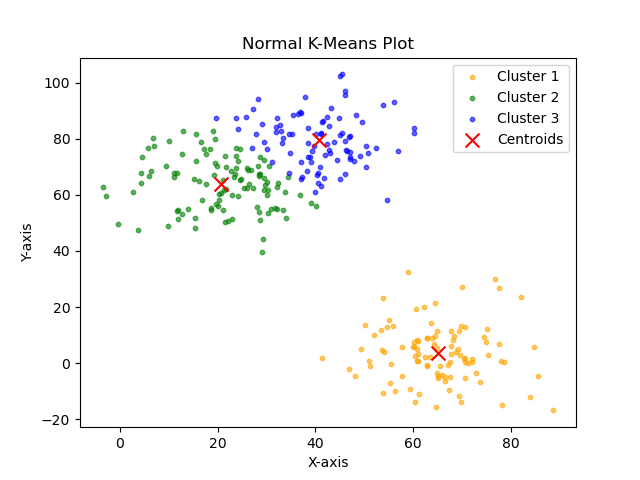
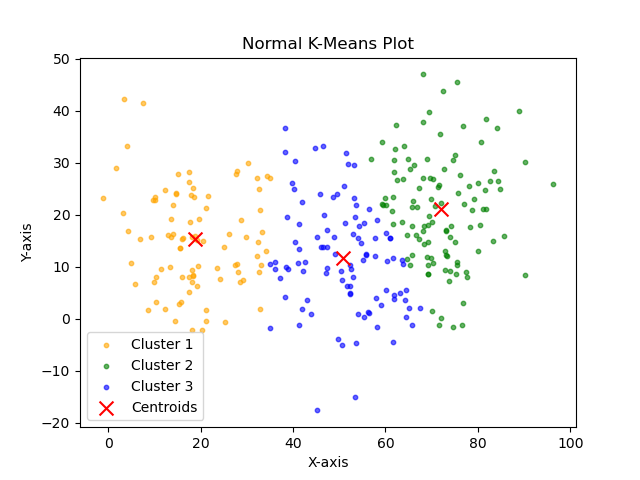
-Implemented numpy approach -Plotted numpy clusters -Save time to a text file

diff --git a/k_means.py b/k_means.py
@@ -1,6 +1,7 @@
 import matplotlib.pyplot as plt
 import random
 import time
+import numpy as np
 
 centroids = [(random.uniform(0, 100), random.uniform(0, 100)) for _ in range(3)]
 
@@ -78,4 +79,40 @@ def plot_clusters(points, clusters, centroids, output_file):
     plt.show()
 
 plot_clusters(points, final_clusters, final_centroids, 'normal_kmeans_clusters.png')
+
+def k_means_numpy(points, k, iterations):
+    points = np.array(points)
+    centroids = points[np.random.choice(points.shape[0], k, replace=False)]
+    for _ in range(iterations):
+        distances = np.linalg.norm(points[:, np.newaxis] - centroids, axis=2)
+        clusters = [points[distances[:, i] == np.min(distances, axis=1)] for i in range(k)]
+        new_centroids = np.array([np.mean(cluster, axis=0) if len(cluster) > 0 else points[np.random.randint(len(points))] for cluster in clusters])
+        if np.array_equal(new_centroids, centroids):
+            break
+        centroids = new_centroids
+    return centroids, clusters
+
+start_time_numpy = time.time()
+final_centroids_numpy, final_clusters_numpy = k_means_numpy(points, k=3, iterations=500)
+end_time_numpy = time.time()
+print("K-Means NumPy Time:", end_time_numpy - start_time_numpy, "seconds")
+
+with open("time_comparison.txt", "w") as file:
+    file.write(f"K-Means Normal Time: {end_time - start_time} seconds\n")
+    file.write(f"K-Means NumPy Time: {end_time_numpy - start_time_numpy} seconds\n")
+
+def plot_clusters_numpy(points, clusters, centroids, output_file):
+    colors = ["orange", "green", "blue"]
+    for i, cluster in enumerate(clusters):
+        if len(cluster) > 0:
+            plt.scatter(cluster[:, 0], cluster[:, 1], alpha=0.6, label=f"Cluster {i + 1}", s=10, color=colors[i])
+    plt.scatter(centroids[:, 0], centroids[:, 1], color='red', label="Centroids", s=100, marker='x')
+    plt.legend()
+    plt.title("NumPy K-Means Plot")
+    plt.xlabel("X-axis")
+    plt.ylabel("Y-axis")
+    plt.savefig(output_file)
+    plt.show()
+    
+plot_clusters_numpy(points, final_clusters_numpy, final_centroids_numpy, 'numpy_kmeans_clusters.png')
 
